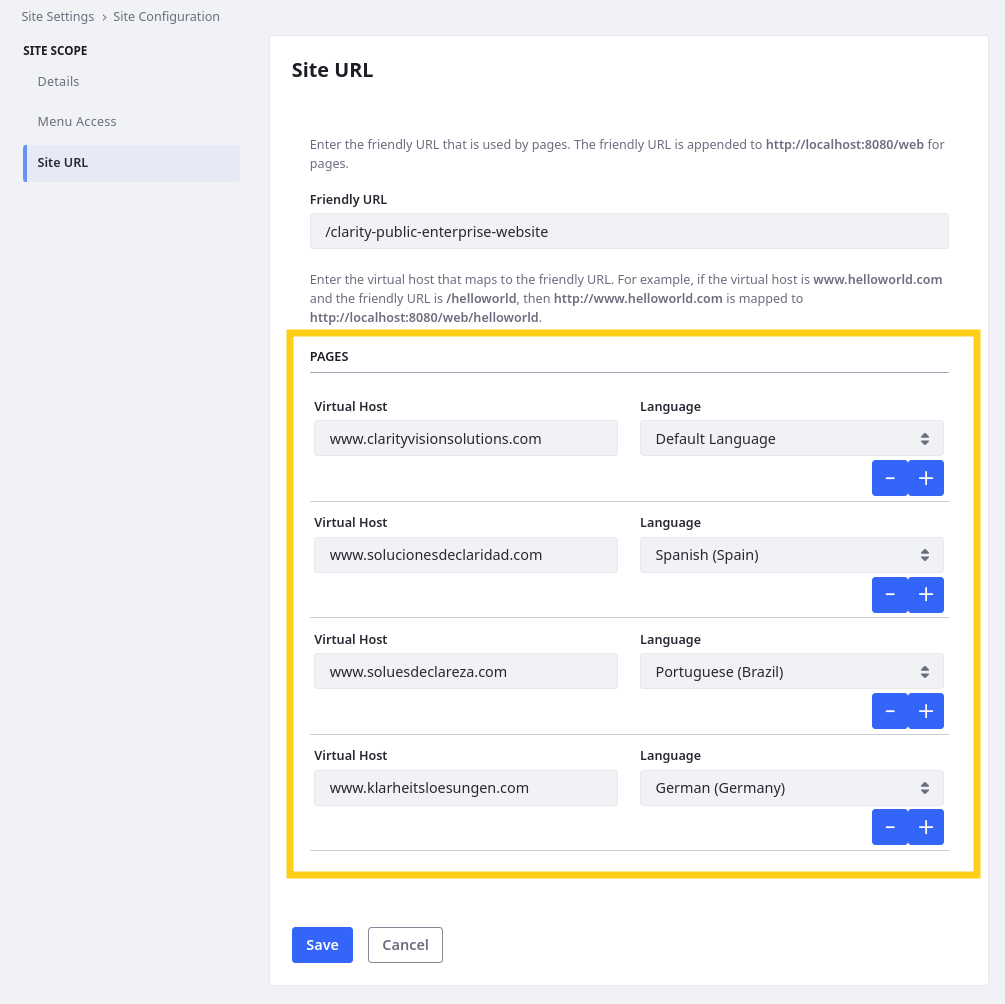
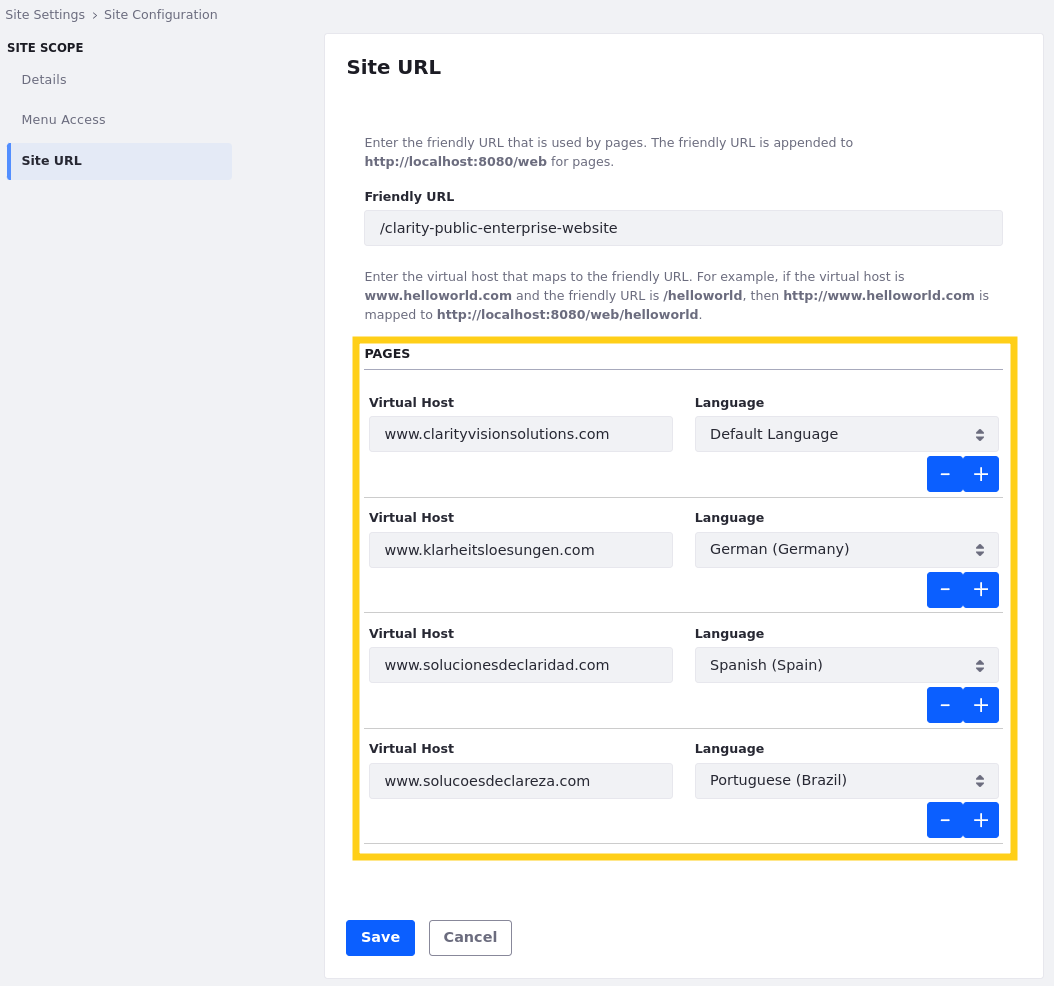
minor changes

diff --git a/docs/courses/latest/en/building-enterprise-websites-with-liferay/module-6-site-building/configuring-the-clarity-site.md b/docs/courses/latest/en/building-enterprise-websites-with-liferay/module-6-site-building/configuring-the-clarity-site.md
@@ -79,11 +79,11 @@ Now, let’s configure these site settings. While logged in as Walter Douglas,
 
 1. Click the *Add* button (![Add Button](../../images/icon-add.png)) to add additional virtual hosts for these languages:
 
+   * German: `www.klarheitsloesungen.com`
+
    * Spanish: `www.solucionesdeclaridad.com`
 
-   * Portuguese: `www.soluesdeclareza.com`
-
-   * German: `www.klarheitsloesungen.com`
+   * Portuguese: `www.solucoesdeclareza.com`
 
    ![Add virtual hosts for these languages.](./configuring-the-clarity-site/images/04.png)
 
